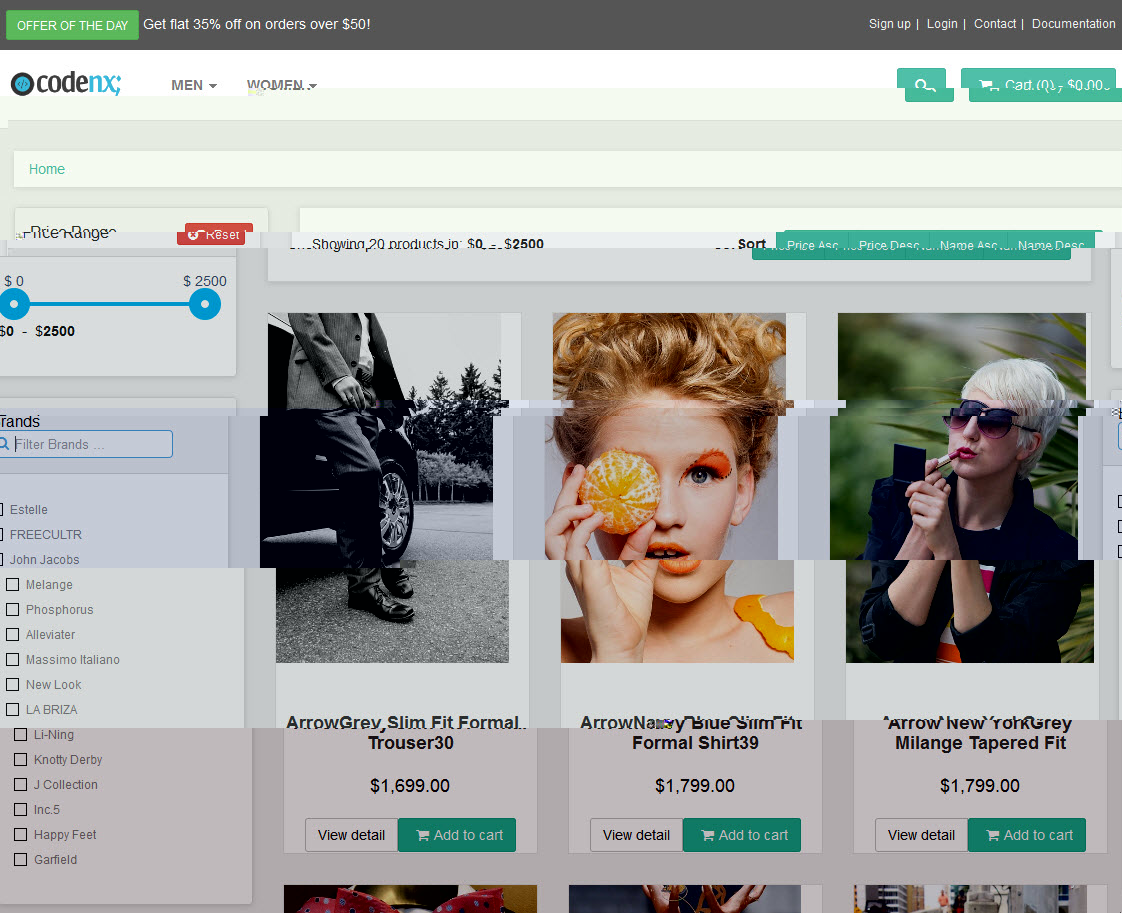
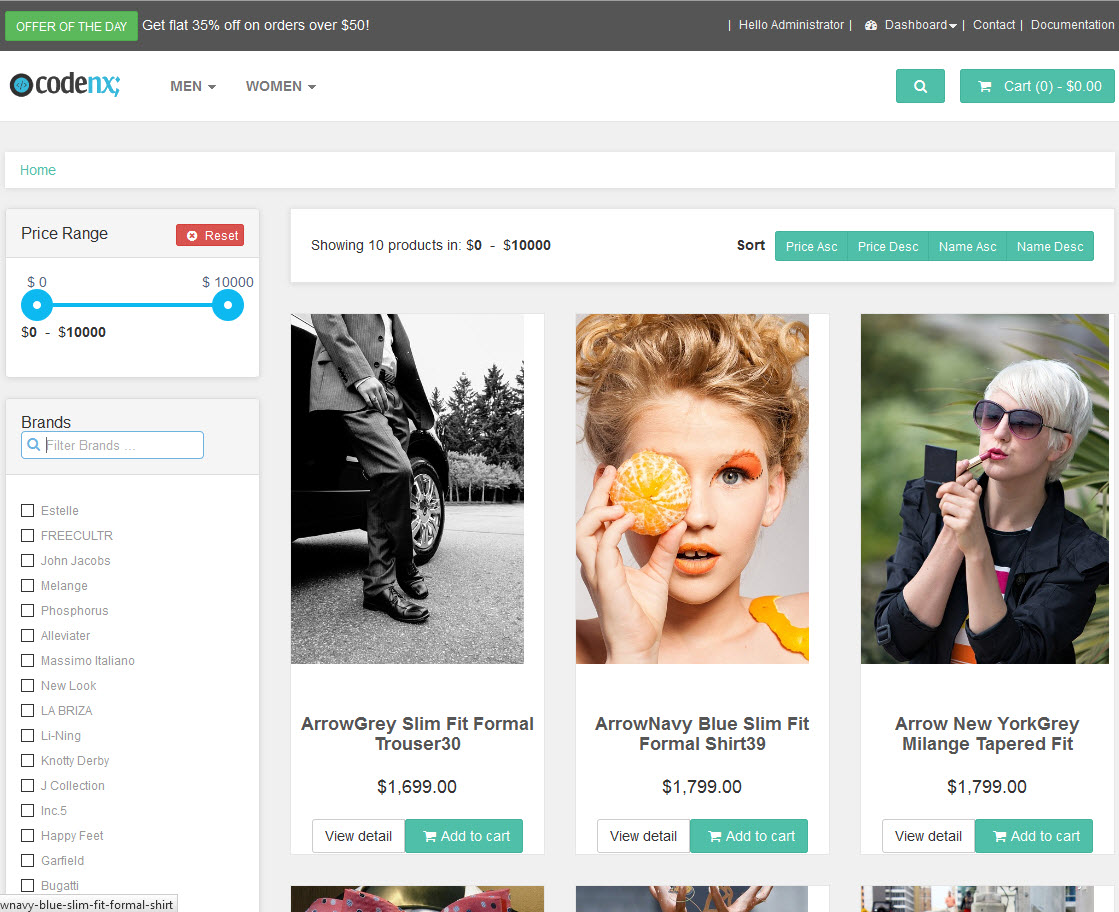
Added option to add PayPal

diff --git a/server/api/setting/setting.controller.js b/server/api/setting/setting.controller.js
@@ -1,0 +1,70 @@
+'use strict';
+
+var _ = require('lodash');
+var Setting = require('./setting.model');
+
+// Get all settings by a user
+exports.mySettings = function(req, res) {
+  Setting.find({'uid' : req.user.email},function (err, settings) {
+    if(err) { return handleError(res, err); }
+    return res.status(200).json(settings);
+  });
+};
+
+// Get list of settings
+exports.index = function(req, res) {
+  Setting.find(function (err, settings) {
+    if(err) { return handleError(res, err); }
+    return res.status(200).json(settings);
+  });
+};
+
+// Get a single setting
+exports.show = function(req, res) {
+  Setting.findById(req.params.id, function (err, setting) {
+    if(err) { return handleError(res, err); }
+    if(!setting) { return res.status(404).send('Not Found'); }
+    return res.json(setting);
+  });
+};
+
+// Creates a new setting in the DB.
+exports.create = function(req, res) {
+  Setting.create(req.body, function(err, setting) {
+    if(err) { return handleError(res, err); }
+    return res.status(201).json(setting);
+  });
+};
+
+// Updates an existing setting in the DB.
+exports.update = function(req, res) {
+  if(req.body._id) { delete req.body._id; }
+  if(req.body.__v) { delete req.body.__v; }
+  req.body.updated = Date.now();
+  console.log(req,res);
+  Setting.findById(req.params.id, function (err, setting) {
+    if (err) { return handleError(res, err); }
+    if(!setting) { return res.status(404).send('Not Found'); }
+    var updated = _.merge(setting, req.body);
+    updated.save(function (err) {
+      if (err) { return handleError(res, err); }
+      return res.status(200).json(setting);
+    });
+  });
+};
+
+// Deletes a setting from the DB.
+exports.destroy = function(req, res) {
+  Setting.findById(req.params.id, function (err, setting) {
+    if(err) { return handleError(res, err); }
+    if(!setting) { return res.status(404).send('Not Found'); }
+    setting.remove(function(err) {
+      if(err) { return handleError(res, err); }
+      return res.status(204).send('No Content');
+    });
+  });
+};
+
+function handleError(res, err) {
+  return res.status(500).send(err);
+}

diff --git a/client/app/main/product-details.html b/client/app/main/product-details.html
@@ -41,7 +41,7 @@ _________________________________________________________ -->
 
           <div class="banner">
               <a href="#">
-                  <img src="/assets/images/banner.jpg" alt="sales 2014" class="img-responsive">
+                  <img src="/assets/img/banner.jpg" alt="sales 2015" class="img-responsive">
               </a>
           </div>
       </div>
@@ -50,7 +50,7 @@ _________________________________________________________ -->
           <div class="row" id="productMain">
               <div class="col-sm-6">
                   <div id="mainImage">
-                      <img src="/assets/clothing/{{product.variants[0].image}}" err-src="/assets/images/photo.png" alt="/assets/clothing/{{product.variants[0].image}}" class="img-responsive">
+                      <img src="/assets/clothing/{{product.variants[0].image}}" err-src="/assets/images/photo.png" alt="{{product.name}}" class="img-responsive">
                   </div>
 
                   <div class="ribbon sale">
@@ -90,7 +90,7 @@ _________________________________________________________ -->
                   <div class="row" id="thumbs">
                       <div class="col-xs-4" ng-repeat="v in product.variants" ng-click="changeIndex($index);" ng-if="v.size!=product.variants[i].size">
                           <a href="" class="thumb">
-                              <img src="/assets/clothing/{{v.image}}" alt="{{product.name}}" class="img-responsive">
+                              <img src="/assets/clothing/{{v.image}}" err-src="/assets/images/photo.png" alt="{{product.name}}" class="img-responsive">
                               {{product.name}} (Size: {{v.size}})
                               <p class="price"><del class="text-muted" ng-if="v.price!=v.mrp" >${{v.mrp}}</del>&nbsp;${{v.price}}</p>
                           </a>

diff --git a/client/app/admin/admin.controller.js b/client/app/admin/admin.controller.js
@@ -1,17 +1,32 @@
 'use strict';
 
 angular.module('shopnxApp')
-  .controller('AdminCtrl', function ($scope, $http, Auth, User) {
+  .controller('AdminCtrl', function ($scope, Setting) {
 
-    // Use the User $resource to fetch all users
-    $scope.users = User.query();
-
-    $scope.delete = function(user) {
-      User.remove({ id: user._id });
-      angular.forEach($scope.users, function(u, i) {
-        if (u === user) {
-          $scope.users.splice(i, 1);
-        }
-      });
-    };
+    $scope.errors = {};
+    $scope.settings = {};
+    Setting.query({},function(res){
+      $scope.settings = res[0];
+    });
+    $scope.savePaypal = function(settings) {
+      $scope.submitted = true;
+      if(settings._id) {
+          Setting.update({ id:settings._id }, settings).$promise.then(function(res) {
+            $scope.message = 'Payment Method saved successfully.';
+          }, function(error) { // error handler
+            console.log(error);
+            settings.paypal.$setValidity('mongoose', false);
+            $scope.errors.other = 'Incorrect payment method';
+            $scope.message = '';
+            if(error.data.errors){
+              var err = error.data.errors;
+              toastr.error(err[Object.keys(err)].message,err[Object.keys(err)].name);
+            }
+            else{
+              var msg = error.data.message;
+              toastr.error(msg);
+            }
+          });
+      }
+		};
   });

diff --git a/client/app/admin/admin.html b/client/app/admin/admin.html
@@ -1,10 +1,28 @@
 <div class="container">
-  <p>The delete user and user index api routes are restricted to users with the 'admin' role.</p>
-  <ul class="list-group">
-    <li class="list-group-item" ng-repeat="user in users">
-        <strong>{{user.name}}</strong><br>
-        <span class="text-muted">{{user.email}}</span>
-        <a ng-click="delete(user)" class="trash"><span class="glyphicon glyphicon-trash pull-right"></span></a>
-    </li>
-  </ul>
+  <div class="row">
+          <p class="text-center"><em>This shop settings page is restricted to users with the 'admin' role.</em></p>
+    <div class="col-md-3"></div>
+    <div class="col-md-6">
+        <div class="box">
+            <h1>Payment Option</h1>
+      <form class="form" name="form" ng-submit="savePaypal(settings)" novalidate>
+
+        <div class="form-group">
+          <label>Paypal Email ID</label>
+
+          <input type="text" name="paypal" class="form-control" ng-model="settings.paypal"
+                 mongoose-error placeholder="Paypal Email"/>
+          <p class="help-block" ng-show="form.paypal.$error.mongoose">
+              {{ errors.other }}
+          </p>
+        </div>
+
+        <p class="help-block"> {{ message }} </p>
+
+        <button class="btn btn-lg btn-warning" type="submit">Save Payment Method</button>
+      </form>
+    </div>
+  </div>
+  <div class="col-md-3"></div>
+</div>
 </div>

diff --git a/server/config/seed.js b/server/config/seed.js
@@ -7,8 +7,15 @@
 
 var Thing = require('../api/thing/thing.model');
 var User = require('../api/user/user.model');
+var Setting = require('../api/setting/setting.model');
 
-Thing.find({}).remove(function() {
+if(Setting.find().count() == 0){
+  Setting.create({
+    paypal : '2lessons@gmail.com'
+  });
+}
+
+if(Thing.find().count() == 0){
   Thing.create({
     name : 'Development Tools',
     info : 'Integration with popular tools such as Bower, Grunt, Karma, Mocha, JSHint, Node Inspector, Livereload, Protractor, Jade, Stylus, Sass, CoffeeScript, and Less.'
@@ -28,9 +35,9 @@ Thing.find({}).remove(function() {
     name : 'Deployment Ready',
     info : 'Easily deploy your app to Heroku or Openshift with the heroku and openshift subgenerators'
   });
-});
+};
 
-User.find({}).remove(function() {
+if(User.find().count() == 0){
   User.create({
     provider: 'local',
     name: 'Test User',
@@ -46,4 +53,4 @@ User.find({}).remove(function() {
       console.log('finished populating users');
     }
   );
-});
+};

diff --git a/server/api/setting/index.spec.js b/server/api/setting/index.spec.js
@@ -1,0 +1,39 @@
+'use strict';
+
+var proxyquire = require('proxyquire').noPreserveCache();
+
+var settingCtrlStub = {
+  index: 'settingCtrl.index'
+};
+
+var routerStub = {
+  get: sinon.spy()
+};
+
+// require the index with our stubbed out modules
+var settingIndex = proxyquire('./index.js', {
+  'express': {
+    Router: function() {
+      return routerStub;
+    }
+  },
+  './setting.controller': settingCtrlStub
+});
+
+describe('Setting API Router:', function() {
+
+  it('should return an express router instance', function() {
+    settingIndex.should.equal(routerStub);
+  });
+
+  describe('GET /api/settings', function() {
+
+    it('should route to setting.controller.index', function() {
+      routerStub.get
+        .withArgs('/', 'settingCtrl.index')
+        .should.have.been.calledOnce;
+    });
+
+  });
+
+});

diff --git a/client/index.html b/client/index.html
@@ -36,13 +36,14 @@
       <link rel="stylesheet" href="app/inventory/inventory.css">
       <link rel="stylesheet" href="app/invoice/invoice.css">
       <link rel="stylesheet" href="app/main/main.css">
-      <link rel="stylesheet" href="app/obaju.css">
       <link rel="stylesheet" href="app/order/order.css">
       <link rel="stylesheet" href="app/product/product.css">
       <link rel="stylesheet" href="app/shop/shop.css">
+      <link rel="stylesheet" href="app/theme.css">
       <link rel="stylesheet" href="components/navbar/megamenu.css">
       <!-- endinjector -->
     <!-- endbuild -->
+    <!-- <link href='http://fonts.googleapis.com/css?family=Roboto:400,500,700,300,100' rel='stylesheet' type='text/css'> -->
   </head>
   <body ng-app="shopnxApp">
     <!--[if lt IE 7]>

diff --git a/client/app/documentation/documentation.html b/client/app/documentation/documentation.html
@@ -134,7 +134,7 @@ _________________________________________________________ -->
       <ul>
         <li>Categories are presented in Parent-Child manner in this store for better organisation of products.</li>
         <li>Store's navigation bar at top contains all the categories arranged in parent-child fashion.</li>
-        <div class="image"><a><img src="/assets/img/nav-bar.jpg" class="img-responsive" alt="Manage Categories"></a></div>
+        <div class="image"><a><img src="/assets/img/navbar.jpg" class="img-responsive" alt="Manage Categories"></a></div>
 
         <li>This view provides facility to add both parent and child categories, edit them, re-arrange category association according to their requirement.</li>
       </ul>

diff --git a/client/components/navbar/navbar.html b/client/components/navbar/navbar.html
@@ -28,6 +28,9 @@ _________________________________________________________ -->
                     <a href="/order"><i class="fa fa-road">&nbsp;</i>Orders</a>
                   </li>
                   <li class="divider"></li>
+                  <li ng-show="isAdmin()" ng-class="{active: isActive('/admin')}">
+                    <a href="/admin"><i class="fa fa-user">&nbsp;</i>Shop Settings</a>
+                  </li>
                   <li ng-show="isAdmin()" ng-class="{active: isActive('/customer')}">
                     <a href="/customer"><i class="fa fa-user">&nbsp;</i>Customers</a>
                   </li>

diff --git a/server/api/setting/index.js b/server/api/setting/index.js
@@ -1,0 +1,16 @@
+'use strict';
+
+var express = require('express');
+var controller = require('./setting.controller');
+var auth = require('../../auth/auth.service');
+
+var router = express.Router();
+
+router.get('/', auth.hasRole('admin'), controller.index);
+router.get('/:id', auth.hasRole('admin'), controller.show);
+router.post('/', auth.hasRole('admin'), controller.create);
+router.put('/:id', auth.hasRole('admin'), controller.update);
+router.patch('/:id', auth.hasRole('admin'), controller.update);
+router.delete('/:id', auth.hasRole('admin'), controller.destroy);
+
+module.exports = router;

diff --git a/client/app/factory/Cart/Cart.service.js b/client/app/factory/Cart/Cart.service.js
@@ -237,8 +237,14 @@
   };
 
   angular.module('shopnxApp')
-    .factory('Cart', function () {
+    .factory('Cart', function (Setting) {
       var myCart = new ShoppingCart('ShopNx');
       myCart.addCheckoutParameters('PayPal', '2lessons@gmail.com');
+      var settings = Setting.query().$promise.then(function(res){
+          myCart.addCheckoutParameters('PayPal', res[0].paypal);
+      }, function (err) {
+          console.log("fail", err);
+      });
+      // console.log(myCart);
       return { cart: myCart };
     });

diff --git a/server/api/setting/setting.socket.js b/server/api/setting/setting.socket.js
@@ -1,0 +1,24 @@
+/**
+ * Broadcast updates to client when the model changes
+ */
+
+'use strict';
+
+var setting = require('./setting.model');
+
+exports.register = function(socket) {
+  setting.schema.post('save', function (doc) {
+    onSave(socket, doc);
+  });
+  setting.schema.post('remove', function (doc) {
+    onRemove(socket, doc);
+  });
+}
+
+function onSave(socket, doc, cb) {
+  socket.emit('setting:save', doc);
+}
+
+function onRemove(socket, doc, cb) {
+  socket.emit('setting:remove', doc);
+}
